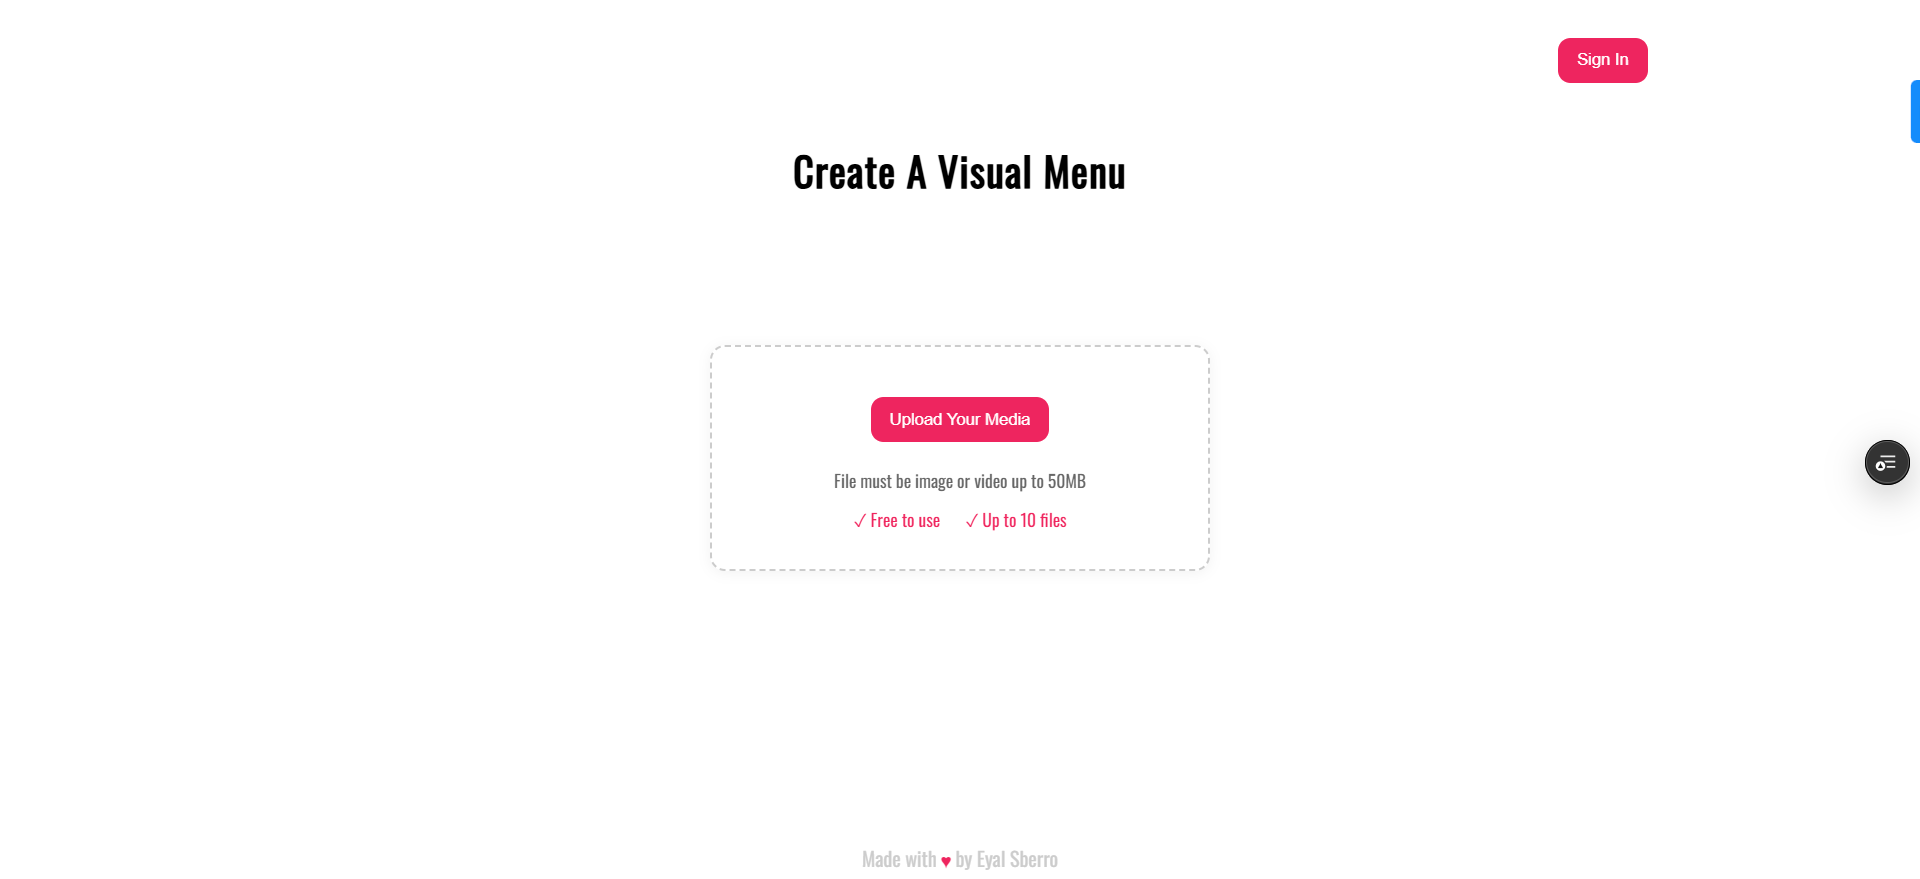
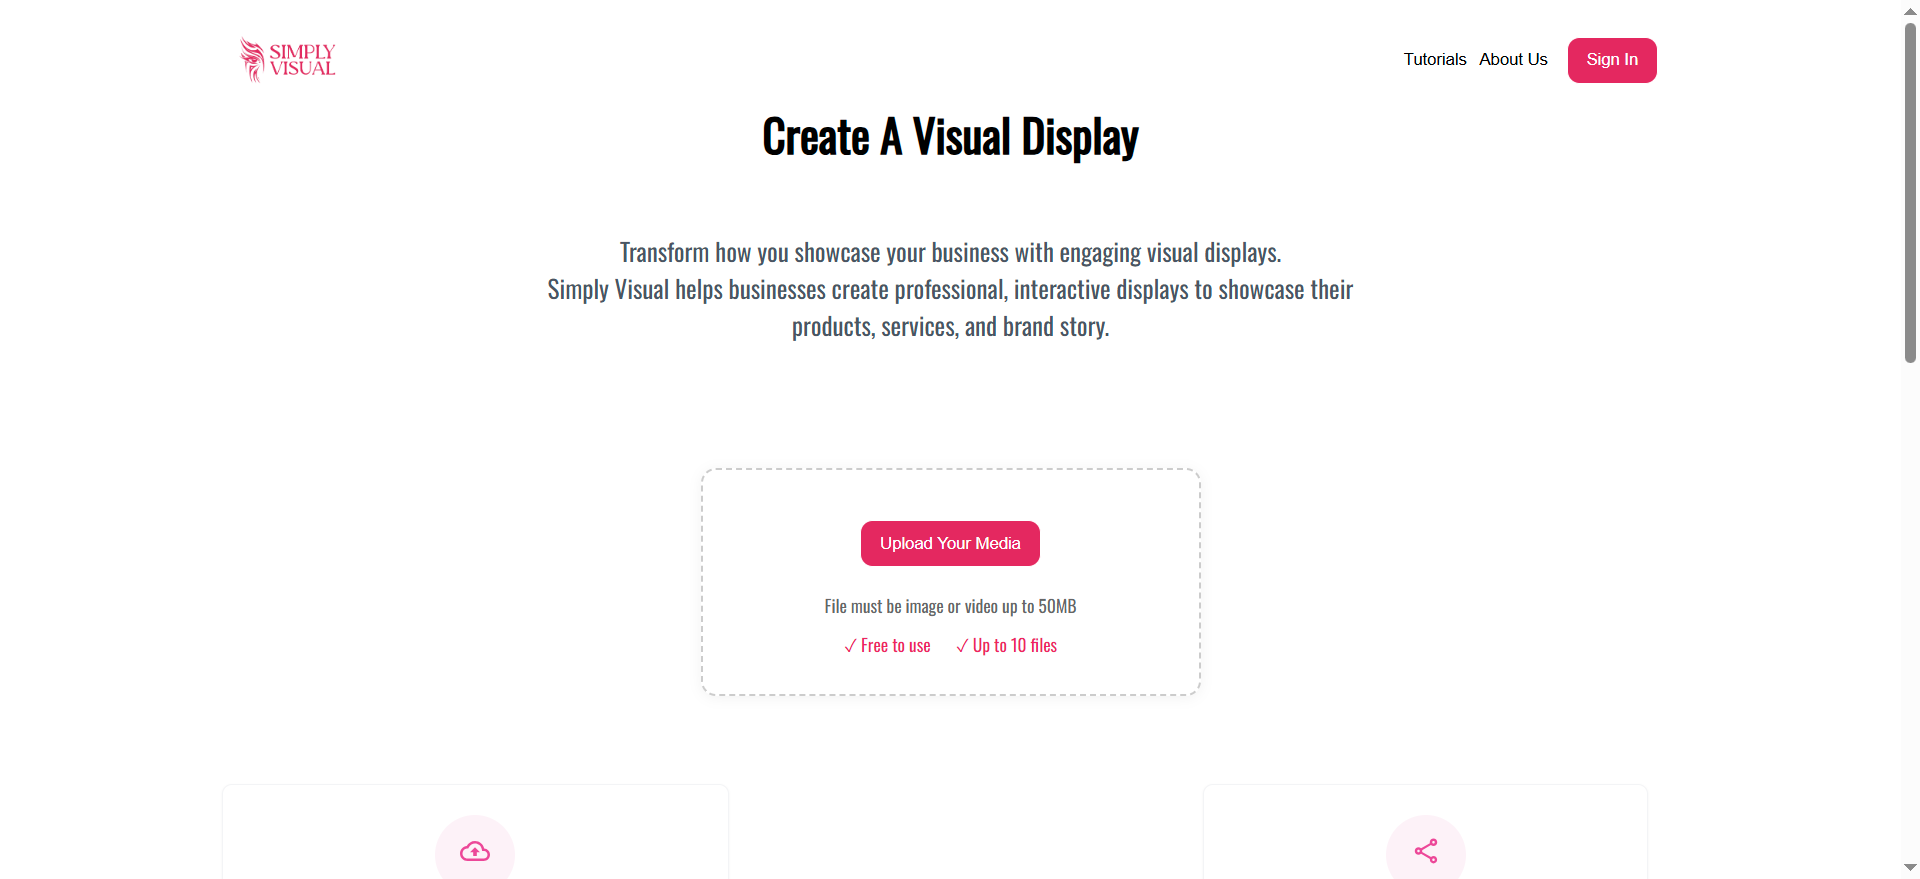
simply visual

diff --git a/app/(page)/web-development/projects.js b/app/(page)/web-development/projects.js
@@ -18,9 +18,9 @@ export const Projects = [
         image: '/images/snapbackhat.png'
     },
     {
-        title: 'VisualMenu',
+        title: 'Simply Visual',
         description: `In the project directory, you can find: Client and Serve built with NextJS, Database with MySQL.`,
-        link: 'https://restaurant-public.vercel.app?utm_source=eyalsberro.com&utm_medium=website',
+        link: 'https://www.simplyvisual.online?utm_source=eyalsberro.com&utm_medium=website',
         image: '/images/Visual-Menu.png'
     },
     {
